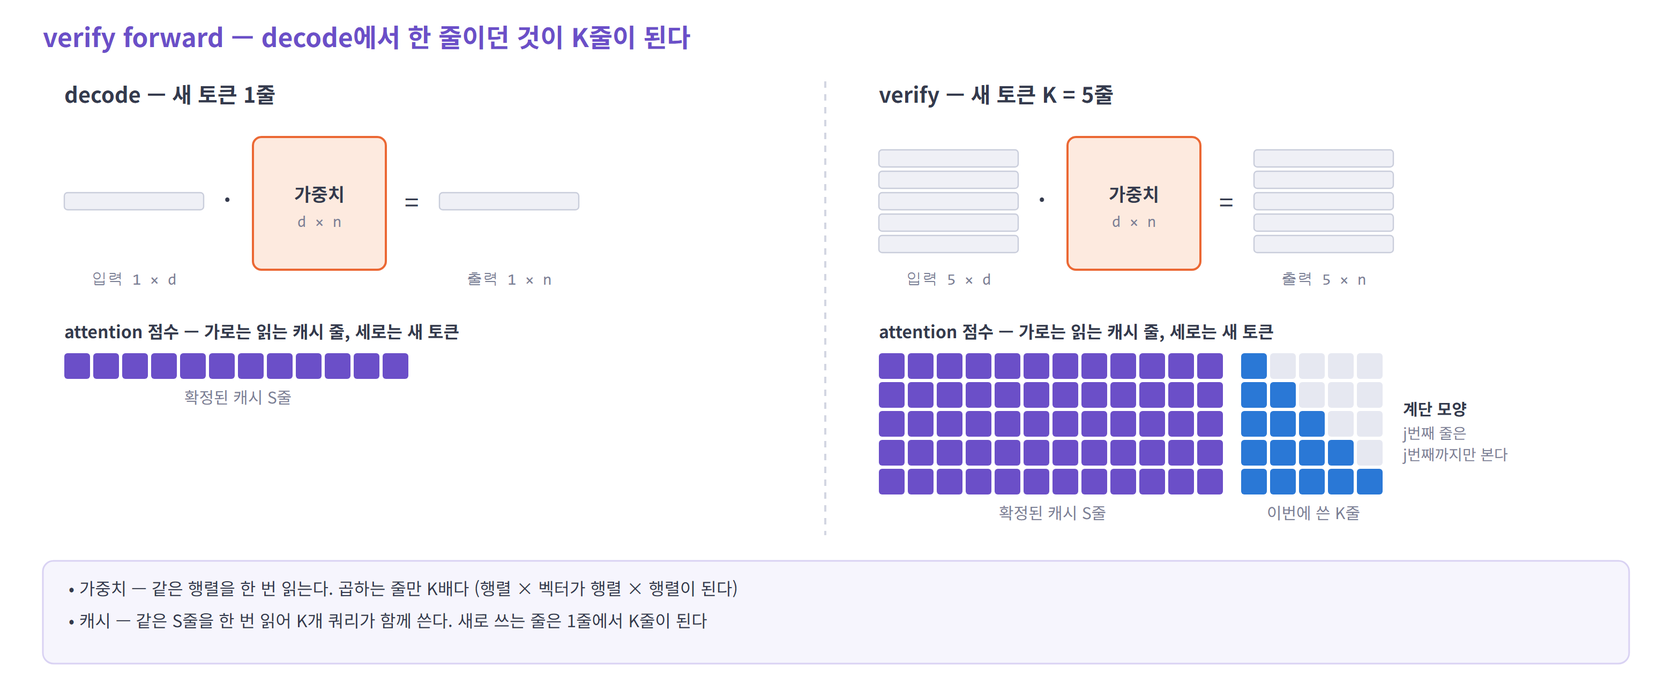
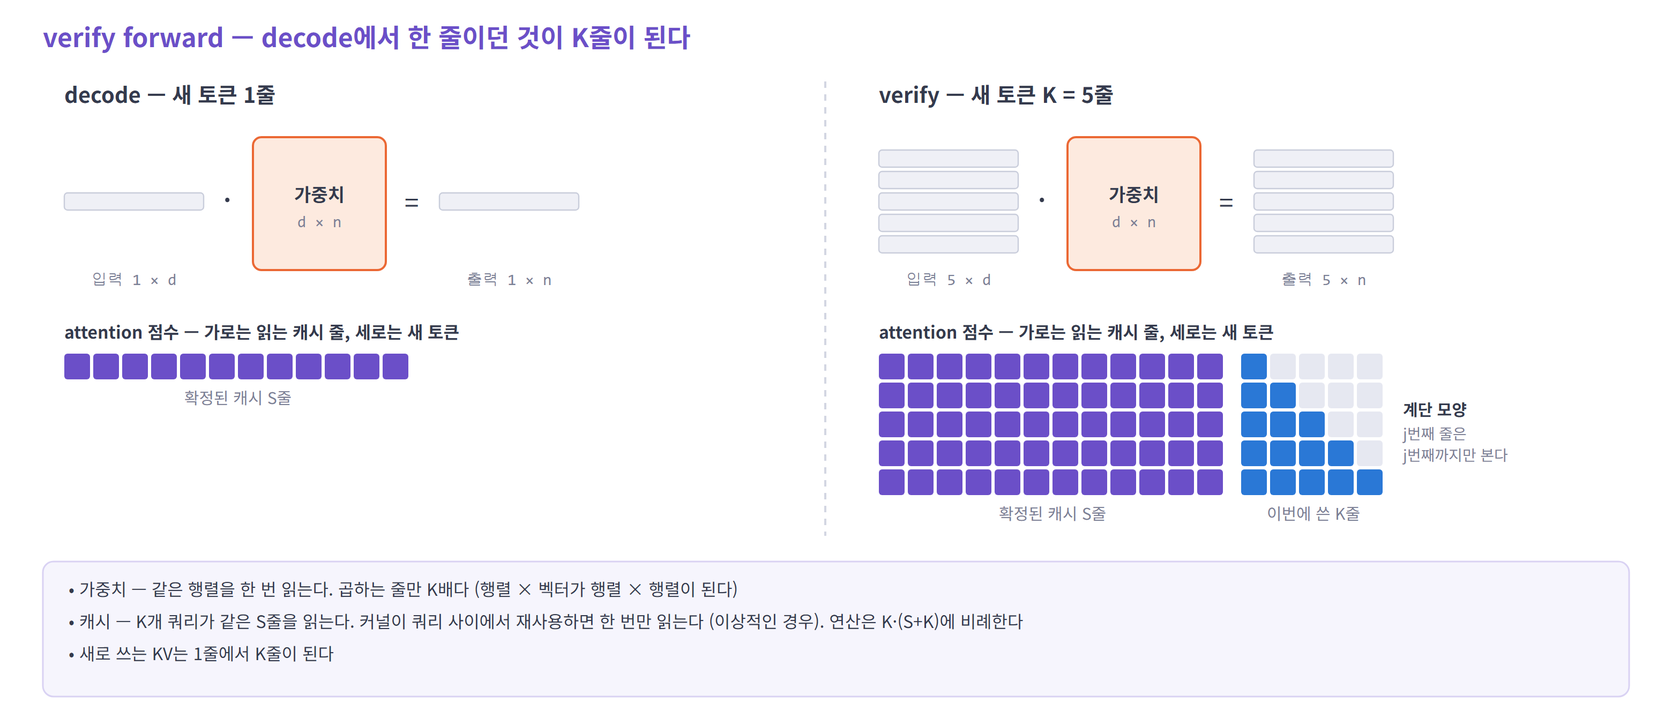
docs: correct cost assumptions in the speculative decoding study
Mark single-pass KV reads in verify as an ideal-reuse assumption and add
the K·(S+K) attention compute, including why MLA targets turn
compute-bound at K = 2. Recompute the DeepSeek-V3 MTP example with both
sides under the same batch condition and stop treating the reported
1.8x as a validation target. Narrow "the verification rule is the same"
to the shared principle, split drafters into generation and context
supply axes so PARD is no longer costed like DFlash, separate CPU and
GPU n-gram, fix the EAGLE-3 weight size, rename the DFlash loss decay
to avoid reusing gamma, switch KV sizes to KiB, and note that the
batch-size tradeoff assumes short contexts.

diff --git a/deepstudy/speculative-decoding/figures/make_figures.py b/deepstudy/speculative-decoding/figures/make_figures.py
@@ -566,7 +566,7 @@ def fig_parallel():
 
 # ---------------------------------------------------------------- 9. verify의 모양
 def fig_verify_shapes():
-    f = Fig("09-verify-shapes", 1560, 640)
+    f = Fig("09-verify-shapes", 1560, 670)
     f.title(40, 44, "verify forward — decode에서 한 줄이던 것이 K줄이 된다")
     S, K = 12, 5
     cs, cg = 24, 3
@@ -606,9 +606,10 @@ def fig_verify_shapes():
     f.text(820 + (S + K) * (cs + cg) + 30, 330 + 58, "계단 모양", 15, "start", 700)
     f.text(820 + (S + K) * (cs + cg) + 30, 330 + 80, "j번째 줄은", 14, "start", color=MUTED)
     f.text(820 + (S + K) * (cs + cg) + 30, 330 + 100, "j번째까지만 본다", 14, "start", color=MUTED)
-    f.rect(40, 524, 1480, 96, "#f6f5fd", "#d9d2f3", 10, 1.5)
+    f.rect(40, 524, 1480, 126, "#f6f5fd", "#d9d2f3", 10, 1.5)
     f.lines(64, 556, ["• 가중치 — 같은 행렬을 한 번 읽는다. 곱하는 줄만 K배다  (행렬 × 벡터가 행렬 × 행렬이 된다)",
-                      "• 캐시 — 같은 S줄을 한 번 읽어 K개 쿼리가 함께 쓴다.  새로 쓰는 줄은 1줄에서 K줄이 된다"], 16, 30)
+                      "• 캐시 — K개 쿼리가 같은 S줄을 읽는다. 커널이 쿼리 사이에서 재사용하면 한 번만 읽는다 (이상적인 경우).  연산은 K·(S+K)에 비례한다",
+                      "• 새로 쓰는 KV는 1줄에서 K줄이 된다"], 16, 30)
     return f
 
 
@@ -716,7 +717,7 @@ def fig_drafter_caches():
             ("EAGLE-3 · MTP 모듈", 16, "1층 분량의 KV", "target hidden을 받아 만든다"),
             ("Gemma 4 MTP", 0, "컨텍스트 캐시 없음", "target의 KV를 직접 읽는다"),
             ("DFlash · DSpark", 40, "draft 층 수만큼의 KV", "target hidden을 투영한 것"),
-            ("n-gram · suffix", -1, "캐시 없음", "토큰 열에서 문자열을 찾는다")]
+            ("n-gram · suffix", -1, "모델 캐시 없음", "토큰 열에서 문자열을 찾는다")]
     rows, rh, rg = 9, 20, 4
     for i, (name, dw, l1, l2) in enumerate(cols):
         x = 40 + i * 300
@@ -738,7 +739,7 @@ def fig_drafter_caches():
             f.text(dx + 40, 310, "읽기만 한다", 14, color=MUTED)
         else:
             f.box(dx - 16, 226, 110, 60, "n", "토큰 열", fs=15)
-            f.text(dx + 39, 310, "호스트 CPU", 14, color=MUTED)
+            f.text(dx + 39, 310, "CPU 또는 GPU", 14, color=MUTED)
         f.text(x + 142, 446, l1, 16, weight=700)
         f.text(x + 142, 472, l2, 14, color=MUTED)
     f.lines(40, 536, ["• 파란 막대의 폭 = 캐시를 두는 층 수 (개념적인 비율).  줄 수는 어느 쪽이든 컨텍스트 길이 S다",

diff --git a/deepstudy/speculative-decoding/04-simulator.md b/deepstudy/speculative-decoding/04-simulator.md
@@ -26,20 +26,34 @@
 | ③ 맞춰 볼 숫자가 있나 | 같은 target에서 보고된 `τ`와 속도가 있나 |
 | ④ op 표가 있나 | target을 트레이서로 이미 뽑았나 |
 
-②로 묶으면 drafter는 다섯 부류다.
+②로 보면 drafter는 **두 축의 조합**이다. 이름보다 이 두 축이 비용을 정한다.
 
-| 부류 | 해당 | 초안 비용 (사이클당) | drafter 캐시 | 검증 |
-|---|---|---|---|---|
-| **A. 얇은 순차** | 내장 MTP, EAGLE-3 | `γ` × (층 1개 + head) | 1층 분량 | 일렬 (트리는 선택) |
-| **B. 병렬 블록** | DFlash, DSpark, DFlash 2, PARD | 1 × (층 `L`개 + head) | `L`층 분량 (창이 있으면 상한) | 일렬 블록. DSpark는 요청마다 길이가 다르다 |
-| C. target KV를 읽는 순차 | Gemma 4 MTP | `γ` × (층 4개 + 작은 head) + target KV 읽기 | 없음 | 일렬 |
-| D. 별도 모델 | draft model | `γ` × (작은 모델의 decode 한 스텝) | 작은 모델 전체 | 일렬 |
-| E. 모델 없음 | n-gram, suffix | 거의 0 (CPU) | 없음 | 일렬 |
+**축 1 — 초안을 어떻게 뽑나** → 초안 시간 `T_draft`를 정한다
 
-- **A와 B만 있으면 실제로 쓰이는 것의 대부분이 덮인다.** C · D · E는 A의 변형이다 — 캐시 위치와 비용 항목만 바꾸면 된다
+| 생성 방식 | forward | 해당 |
+|---|---|---|
+| 순차 | `γ`번, 매번 요청당 1줄 (트리면 깊이마다 후보 수만큼) | 별도 draft 모델, EAGLE-3, 내장 MTP, Gemma 4 MTP |
+| 병렬 | 1번, 요청당 `γ + 1`줄 (anchor + 마스크 토큰) | PARD, DFlash, DSpark, DFlash 2 |
+| 모델 없음 | 0 — CPU의 매칭, 또는 GPU의 작은 매칭 연산(`ngram_gpu`) | n-gram, suffix |
+
+**축 2 — 컨텍스트를 어떻게 받나** → drafter 캐시 · prefill · 사이클마다의 쓰기를 정한다
+
+| 컨텍스트 공급 | drafter 캐시 | prefill 때 추가로 하는 일 | 해당 |
+|---|---|---|---|
+| 자기 모델의 KV | 작은 모델의 모든 층 | 작은 모델의 prefill 전체 | 별도 draft 모델, **PARD** |
+| target hidden → drafter 층 forward | 1층 분량 | drafter 층 1개로 프롬프트 전체 forward | EAGLE-3, 내장 MTP |
+| target hidden → 층마다 K · V 투영만 | `L`층 분량 (창이 있으면 상한) | 투영만 — attention · FFN 없음 | DFlash, DSpark, DFlash 2 |
+| target의 KV를 직접 읽기 | 없음 | 없음 (대신 초안 스텝마다 target KV를 읽는다) | Gemma 4 MTP |
+| 없음 | 없음 (CPU의 토큰 열, 또는 GPU의 토큰 버퍼) | 없음 | n-gram, suffix |
+
+- **PARD와 DFlash는 둘 다 병렬로 뽑지만 컨텍스트 공급이 다르다.** PARD는 독립 소형 모델이라 자기 prefill과 자기 KV 전부를 치른다. 두 축을 따로 구현해 조합하면 이런 차이가 새 코드 없이 나온다
+- 자주 쓰는 두 조합에 이름을 붙여 둔다. 이 페이지의 나머지는 이 이름을 쓴다
+  - **A = 순차 + hidden → 1층 forward** — 내장 MTP, EAGLE-3
+  - **B = 병렬 + 층마다 투영** — DFlash, DSpark, DFlash 2
+- **공개된 drafter 체크포인트의 대부분이 A와 B에 속한다.** 나머지는 같은 두 축의 다른 칸이다
 - **내장 MTP와 EAGLE-3는 같은 코드다.** 다른 것은 매개변수 셋이다 — 층의 종류(MTP는 본체와 같은 층, EAGLE-3는 Q · K · V 입력이 `2d`인 decoder 층), head의 어휘 크기(MTP는 target 어휘, EAGLE-3는 3.2만), target에서 꺼내는 hidden 층 수(1 대 3)
 
-> **결론: 사이클 프레임 하나 + drafter 부류 A · B를 먼저 만든다.** 나머지는 매개변수와 작은 항목으로 붙인다.
+> **결론: 사이클 프레임 하나 + 두 축(생성 방식 · 컨텍스트 공급)을 따로 구현하고, A · B부터 채운다.** 나머지 칸은 매개변수와 작은 항목으로 붙인다.
 
 ---
 
@@ -53,7 +67,7 @@
 | Llama-3.1-70B | 없음 | EAGLE-3 (Speculators) | EAGLE-3 논문 (Llama-3.3-70B 4.12×) |
 | gpt-oss-20b · 120b | 없음 | EAGLE-3 (Speculators), DFlash (z-lab) | NVIDIA (120b): 1.7× vs 2.3× |
 | Qwen3-30B-A3B | 없음 | EAGLE-3, DFlash (Speculators) | — |
-| **DeepSeek-V3** | 1 (`num_nextn_predict_layers`) | — | 채택률 0.85 ~ 0.90, 1.8× (DeepSeek) |
+| **DeepSeek-V3** | 1 (`num_nextn_predict_layers`) | — | 채택률 0.85 ~ 0.90, 1.8× (DeepSeek, 측정 조건 미공개) |
 | **DeepSeek-V4-Flash · Pro** | 1 | DSpark (DeepSeek-V4-*-DSpark) | DSpark vs MTP-1: 사용자당 +57 ~ 85% |
 | GLM-5.2 · GLM-4.5-Air | 1 | GLM 5.2: DSpark (Speculators) | — |
 | ERNIE-4.5-21B-A3B | 1 | — | — |
@@ -77,8 +91,8 @@
 
 | 단계 | 조합 | 이 단계에서 검증되는 것 |
 |---|---|---|
-| 1 | **Llama-3.1-8B + EAGLE-3, DFlash** | 가장 단순한 target(dense · GQA)에서 부류 A와 B. 같은 target에 두 drafter의 공개 비교가 있다 |
-| 2 | **DeepSeek-V3 + MTP-1** | MoE의 expert 합집합, MLA, 합성한 MTP op. 보고된 1.8×와 맞춰 본다 |
+| 1 | **Llama-3.1-8B + EAGLE-3, DFlash** | 가장 단순한 target(dense · GQA)에서 A와 B. 같은 target에 두 drafter의 공개 비교가 있다 |
+| 2 | **DeepSeek-V3 + MTP-1** | MoE의 expert 합집합, MLA(verify의 attention이 연산에 묶임), 합성한 MTP op. 보고된 1.8×는 측정 조건이 공개되지 않아 정답으로 쓰지 않는다 — 배치에 따라 이득이 달라지는 **방향**을 본다 |
 | 3 | **Qwen3.5-397B-A17B 또는 Qwen3.6-35B-A3B + 내장 MTP vs DFlash** | 선형 attention 혼합 — 상태 저장 비용. MoE. LMSYS · AMD 결과 |
 | 4 | **DeepSeek-V4-Flash + DSpark** | 압축 · 희소 attention의 검증, 요청마다 다른 검증 길이(스케줄러), MTP-1과의 비교 |
 
@@ -94,7 +108,7 @@
 |---|---|
 | `S` | target KV에 있는 줄 수 (확정된 토큰 중 KV가 있는 것) |
 | 대기 토큰 | 마지막으로 확정됐지만 아직 KV가 없는 토큰 1개 — 다음 verify의 맨 앞 |
-| `S_draft` | drafter 캐시의 줄 수 (부류 A · B) |
+| `S_draft` | drafter 캐시의 줄 수 (컨텍스트를 자기 캐시로 받는 drafter) |
 | `γ_r` | 이번 사이클에 검증할 초안 수. 고정이거나 스케줄러가 정한다 |
 | 선형 attention 상태 | 혼합 모델이면 층마다 상태 하나 + 검증 중 중간 상태 `K`개 |
 
@@ -112,7 +126,7 @@
 |---|---|---|---|
 | 가중치 matmul (투영 · FFN · LM head) | 가중치 1번 | 줄 수 `Σ K_r`에 비례 | — |
 | **MoE expert matmul** | **불린 expert 수** × expert 크기 | 줄 수에 비례 | — |
-| attention 점수 · 가중합 | 요청마다 캐시 `S + K`줄 1번 | `K`배 | — |
+| attention 점수 · 가중합 | 요청마다 캐시 `S + K`줄 × 재사용 계수 (이상적이면 1번, 쿼리마다 따로 읽으면 `K`번) | `K·(S + K)`에 비례 | — |
 | KV 쓰기 | — | — | 요청마다 `K`줄 |
 | 원소별 연산 (norm · RoPE · softmax …) | 활성값 | `K`배 | 활성값 |
 | LM head 뒤 로짓 | — | — | `K × V` |
@@ -122,12 +136,13 @@
 | 골라 읽기 (gather) | **`K`개 선택의 합집합** | — | — |
 
 - op 하나의 시간은 시뮬레이터가 이미 쓰는 규칙을 그대로 쓴다 (예: `max(바이트 ÷ 대역폭, FLOP ÷ 연산 성능)`)
+- **attention은 읽기와 연산을 둘 다 센다.** KV를 쿼리 사이에서 얼마나 재사용하는지는 커널이 정하므로 재사용 계수를 매개변수로 둔다. MLA target은 `K` = 2만 돼도 연산이 시간을 정한다 ([03](03-compute-and-kv.md#2-verify-forward--decode와-무엇이-같고-다른가))
 - MoE의 불린 expert 수는 층마다 `E · (1 − (1 − k/E)^n)`로 센다. `n`은 그 forward에서 라우팅되는 토큰 수 `Σ K_r`다 ([03](03-compute-and-kv.md#8-모델-구조에-따라-깨지는-가정))
 - 스텝마다 붙는 고정 비용(호스트 작업, 커널 실행)도 따로 둔다. speculative decoding은 비교 · 롤백 · 초안 관리로 호스트 일을 늘린다. SGLang의 Spec V2가 이것을 GPU와 겹친 것만으로 처리량을 33% 올렸다 — 작은 항목이 아니다
 
-### 4.2 drafter — 부류별 op 목록
+### 4.2 drafter — 조합별 op 목록
 
-**부류 A — 얇은 순차 (내장 MTP, EAGLE-3)**
+**A — 순차 + hidden → 1층 forward (내장 MTP, EAGLE-3)**
 
 ```
 첫 패스   줄 = a + 1  (지난 사이클에 확정된 위치)
@@ -143,7 +158,7 @@
 - 트리를 쓰면 깊이마다 forward 한 번, 줄 수는 그 깊이의 후보 수(`topk`)다. 검증 줄 `K`는 노드 수다
 - **head가 비싸다.** target 어휘가 크면 drafter 한 스텝의 절반 이상이 head다 — EAGLE-3가 어휘를 줄이고, Gemma 4가 군집 top-k를 쓰는 이유다
 
-**부류 B — 병렬 블록 (DFlash, DSpark)**
+**B — 병렬 + 층마다 투영 (DFlash, DSpark)**
 
 ```
 컨텍스트 투영   줄 = a + 1
@@ -161,22 +176,16 @@
 - 초안 비용이 `γ`와 거의 무관하다 — 블록 forward의 가중치 읽기가 한 번이다
 - 창이 있는 drafter(DSpark 서비스용, 128토큰)는 캐시를 `min(S, 128)`줄만 읽는다
 
-**부류 C · D · E**
+**두 축의 다른 칸**
 
-| 부류 | 초안 비용 | 덧붙일 것 |
-|---|---|---|
-| C. Gemma 4 MTP | `γ` × [4층 1줄 + 작은 head] | 초안 스텝마다 **target KV 읽기** (읽는 층 수는 매개변수) |
-| D. 별도 모델 | `γ` × (작은 모델의 decode 표) | 작은 모델의 prefill과 KV — 트레이서에 있는 작은 모델의 표를 그대로 쓴다 |
-| E. n-gram · suffix | 상수 (CPU) | 채택 모형만 다르다 — 작업 종류에 크게 의존 |
+| drafter | 축 1 · 축 2 | 초안 비용 | 덧붙일 것 |
+|---|---|---|---|
+| Gemma 4 MTP | 순차 · target KV 직접 | `γ` × [4층 1줄 + 작은 head] | 초안 스텝마다 **target KV 읽기** (읽는 층 수는 매개변수) |
+| 별도 draft 모델 | 순차 · 자기 KV | `γ` × (작은 모델의 decode 표) | 작은 모델의 prefill과 KV — 트레이서에 있는 작은 모델의 표를 그대로 쓴다 |
+| PARD | 병렬 · 자기 KV | 1 × (작은 모델의 forward, `γ + 1`줄) | 작은 모델의 prefill과 KV — B의 투영 경로가 아니다 |
+| n-gram · suffix | 모델 없음 | CPU 매칭 시간(상수), 또는 GPU의 작은 매칭 연산 | 채택 모형만 다르다 — 작업 종류에 크게 의존 |
 
-**prefill에 붙는 일**
-
-| 부류 | prefill 때 추가로 하는 일 |
-|---|---|
-| A | drafter 층 1개로 프롬프트 전체 forward (target hidden을 받아) |
-| B | 프롬프트 전체에 대해 섞기 + 층마다 K · V 투영만 |
-| C · E | 없음 |
-| D | 작은 모델의 prefill 전체 |
+prefill 때 drafter가 추가로 하는 일은 1절 축 2의 표 그대로다.
 
 ---
 
@@ -228,7 +237,7 @@ a = (통과한 수)
 | | 계산 | target 한 스텝 대비 |
 |---|---|---|
 | target 한 스텝 | 층 36 × 192.9M + LM head 622M = 7.57B | 1 |
-| EAGLE-3 한 스텝 | 층 1개 218M (Q · K · V 입력 `2d`) + head 4096 × 32,000 = 131M → 0.35B | 0.046 |
+| EAGLE-3 한 스텝 | 층 1개 218M (Q · K · V 입력 `2d`, FFN은 target 층과 같은 12288이라고 가정) + head 4096 × 32,000 = 131M → 0.35B | 0.046 |
 | EAGLE-3 초안 (깊이 8) | 8 × 0.046 + hidden 섞기 50M | **0.38** |
 | DFlash 초안 (블록 16) | 층 5개 965M + head 622M + 섞기 84M = 1.67B | **0.22** |
 | verify | 트리 60줄 / 블록 16줄 — 연산 증가분을 메모리 시간의 10% / 3%로 둠 | 1.10 / 1.03 |
@@ -243,23 +252,22 @@ a = (통과한 수)
 - 둘 사이의 비율은 잘 맞는다. **이 정도 단순한 모형으로도 어느 drafter가 왜 빠른지는 재현된다**
 - 왜 DFlash가 빠른가: `τ`가 1.9배 높고 사이클이 0.85배로 짧다. 앞은 깊은 drafter와 모든 층 주입에서, 뒤는 forward 한 번에서 나온다
 
-### DeepSeek-V3 — MTP-1, 배치에 따라
+### DeepSeek-V3 — MTP-1, 배치에 따라 (가정 아래의 예시)
 
-| | 계산 | 값 |
+target과 MTP의 비용은 **같은 배치 조건에서** 함께 센다. 배치가 바뀌면 양쪽이 부르는 expert의 수가 함께 바뀌기 때문이다.
+
+| | 배치 1 | 큰 배치 (가정: target과 MTP 모두 expert를 거의 다 읽는다) |
 |---|---|---|
-| 층 하나의 활성 파라미터 | MLA 187M + expert 9개(공유 1 + 선택 8) × 44.0M | 584M |
-| target 한 스텝 | 61층 × 584M + 출력 head 927M | 36.5B |
-| MTP 한 스텝 | 층 1개 584M + 투영 `2d → d` 103M + head 927M | 1.61B → **0.044** |
-| verify `K` = 2, 배치 1 | 선택 expert 8 → 15.8개 (58개 MoE 층) | 읽기 **1.54배** |
-| verify `K` = 2, 큰 배치 | 이미 거의 모든 expert를 읽는 중 | 읽기 **약 1.0배** |
+| target 한 스텝의 가중치 읽기 | 61층 × 584M + head 927M = 36.5B | MoE 58층 × 11.5B + dense 3층 + head = 670B |
+| MTP 한 스텝 | 층 1개 584M + 투영 103M + head 927M = 1.61B → **`c` = 0.044** | 층 1개 11.5B + 투영 + head = 12.5B → **`c` = 0.019** |
+| verify `K` = 2의 읽기 | 선택 expert 8 → 15.8개 → **1.54배** | 이미 다 읽고 있다 → **약 1.0배** |
+| 속도 (`τ` 1.875) | 1.875 / (1.54 + 0.044) ≈ **1.2×** | 1.875 / (1.0 + 0.019) ≈ **1.8×** |
 
-| | `τ` | 사이클 시간 | 계산한 속도 |
-|---|---|---|---|
-| 배치 1 | 1.875 | 1.54 + 0.044 | **약 1.2×** |
-| 큰 배치 | 1.875 | 1.0 + 0.044 | **약 1.8×** — DeepSeek 보고값과 같다 |
-
-- 💡 MoE에서는 같은 drafter라도 **배치가 작을 때 이득이 작다.** 시뮬레이터가 expert 합집합을 세지 않으면 배치 1의 MoE 속도를 크게 부풀린다
-- 라우팅이 고르고 독립이라는 가정이다. 실제로는 이웃 토큰의 expert가 겹쳐 1.54배보다 작다. 이 값은 실제 라우팅 기록이 있으면 그것으로 바꾼다
+- 층 하나의 활성 파라미터 584M = MLA 187M + expert 9개(공유 1 + 선택 8) × 44.0M. expert를 다 읽으면 층 하나가 11.5B다 (expert 257개)
+- **둘 다 가정 아래의 예시 계산이다.** 라우팅이 고르고 독립이라고 두었고, 가중치 읽기만 셌다. 큰 배치에서는 KV 읽기와 연산(특히 MLA의 attention)도 시간에 들어온다
+- DeepSeek가 보고한 1.8배는 측정 조건이 공개되지 않았다. 그 값이 "큰 배치에서 expert 읽기가 포화됐기 때문"이라고 확인된 것은 아니므로, **구현을 검증하는 정답으로 쓰지 않는다**
+- 이 예시에서 가져갈 것은 방향이다 — 💡 MoE에서는 같은 drafter라도 **배치가 작을 때 이득이 작다.** 시뮬레이터가 expert 합집합을 세지 않으면 배치 1의 MoE 속도를 크게 부풀린다
+- 실제로는 이웃 토큰의 expert가 겹쳐 1.54배보다 작다. 실제 라우팅 기록이 있으면 그것으로 바꾼다
 
 ---
 
@@ -270,7 +278,7 @@ a = (통과한 수)
 | 항목 | 크기 | 비고 |
 |---|---|---|
 | target KV | `(S + K) ×` 토큰당 크기 | `K`줄은 verify용 여유 |
-| drafter 캐시 | 부류 A: `S ×` 1층분 / B: `min(S, W) ×` `L`층분 / C · E: 0 / D: 작은 모델 전체 | 03의 표: EAGLE-3 +3.1%, DSV3 MTP +1.6%, DFlash 5층 +13.9% |
+| drafter 캐시 | 축 2에 따라 — hidden → 1층 forward: `S ×` 1층분 / 층마다 투영: `min(S, W) ×` `L`층분 / 자기 KV(별도 모델 · PARD): 작은 모델 전체 / target KV 직접 · 모델 없음: 0 | 03의 표: EAGLE-3 +3.1%, DSV3 MTP +1.6%, DFlash 5층 +13.9% |
 | 선형 attention 상태 | 층마다 (1 + `K`) × 상태 크기 | 혼합 모델만 |
 | 로짓 버퍼 | `K × V × 4 B` | 블록이 길고 어휘가 크면 수 MB |
 | hidden 버퍼 | `K × d ×` 꺼내는 층 수 `× 2 B` | 잠깐 쓴다 |
@@ -279,7 +287,7 @@ a = (통과한 수)
 
 | drafter | 크기 |
 |---|---|
-| EAGLE-3 (Llama-3.1-8B용) | 층 1개 + 어휘 3.2만 head ≈ 0.35B |
+| EAGLE-3 (Llama-3.1-8B용) | decoder 1층 243M (Q · K · V 입력 `2d`, FFN 14336) + hidden 섞기 `3d → d` 50M + 어휘 3.2만 head 131M ≈ **0.43B** (임베딩 표 제외 — 체크포인트와 구현에 따라 target 것을 함께 쓴다) |
 | DFlash (Qwen3-8B용) | 층 5개 ≈ 1B (임베딩 · head는 target 것) |
 | MTP (DeepSeek-V3) | 14B — 체크포인트에 들어 있지만 올려 둬야 한다 |
 | Gemma 4 MTP | 76M ~ 500M |
@@ -291,9 +299,9 @@ a = (통과한 수)
 | 단계 | 만드는 것 | 확인 |
 |---|---|---|
 | 1 | 사이클 프레임 + 상수 `α` 채택 모형 + verify 비용 (decode 표를 `K`줄로). drafter 비용은 0 | `γ` = 0이면 **기존 decode 결과와 정확히 같다** · `α` = 1이면 `τ = γ + 1` · `α` = 0이면 사이클당 1토큰이고 기존보다 느리다 |
-| 2 | 부류 A (EAGLE-3 on Llama-3.1-8B). head 어휘 크기, 첫 패스 줄 수 | 배치가 커질수록 이득이 줄고, `τ`가 낮은 drafter가 먼저 1 아래로 내려간다 (03 그림의 왼쪽 모양) |
-| 3 | 부류 B (DFlash) | Qwen3-8B에서 DFlash ÷ EAGLE-3 ≈ 2.4 · 동시 요청 1 → 32에서 5.1× → 2.8×의 모양 |
-| 4 | MoE expert 합집합 + 합성한 MTP op (DeepSeek-V3) | 배치 1에서 약 1.2×, 큰 배치에서 약 1.8× |
+| 2 | A (EAGLE-3 on Llama-3.1-8B). head 어휘 크기, 첫 패스 줄 수 | 짧은 컨텍스트에서 배치가 커질수록 이득이 줄고, `τ`가 낮은 drafter가 먼저 1 아래로 내려간다 (03 그림의 왼쪽 모양) |
+| 3 | B (DFlash) | Qwen3-8B에서 DFlash ÷ EAGLE-3 ≈ 2.4 · 동시 요청 1 → 32에서 5.1× → 2.8×의 모양 |
+| 4 | MoE expert 합집합 + 합성한 MTP op + attention 재사용 계수 (DeepSeek-V3) | **방향** — 배치가 작을수록 MoE의 이득이 깎이고, 컨텍스트가 길수록 MLA의 verify attention이 비싸진다. 6절의 1.2× · 1.8×는 정답이 아니라 예시다 |
 | 5 | 메모리 모형 — `K`줄 여유, drafter 캐시, 혼합 모델의 중간 상태 (Qwen3.5) | 같은 HBM에서 동시 요청 수의 상한이 drafter 종류에 따라 줄어드는 양 |
 | 6 | (선택) 트리 검증, DSpark 스케줄러 | 아래 |
 | 7 | 출력 — **사용자당 토큰/초 대 전체 처리량** 곡선 | DSpark · NVIDIA가 쓰는 축이다. "같은 처리량에서 사용자당 속도"로 비교한다 |
@@ -308,13 +316,15 @@ a = (통과한 수)
 def step(batch, target, drafter, hw):
     """배치 하나의 사이클 한 번. 반환: 걸린 시간. 요청 상태를 갱신한다."""
     # ① draft — 지난 사이클에 확정된 줄로 drafter 캐시를 채우고, 초안을 낸다
-    t_draft = drafter.cost(batch, hw)        # 부류 A: 첫 패스(a+1줄) + (γ-1) × 1줄 / 부류 B: 투영(a+1줄) + 블록 1번
+    t_draft = drafter.cost(batch, hw)        # A: 첫 패스(a+1줄) + (γ-1) × 1줄 / B: 투영(a+1줄) + 블록 1번
 
     # ② verify — target의 decode 표를 새 토큰 Σ K_r 줄로
     rows = sum(r.gamma + 1 for r in batch)
     t_verify = target.step_cost(new_rows=rows,
                                 ctx=[r.S + r.gamma + 1 for r in batch],
-                                moe_tokens=rows, hw=hw)
+                                moe_tokens=rows,
+                                kv_reuse=hw.kv_reuse,   # 1 = 이상적 재사용, K = 쿼리마다 따로 읽음
+                                hw=hw)
 
     # ③ accept
     for r in batch:
@@ -338,7 +348,7 @@ def serve(requests, target, drafter, hw):
     while requests or active:
         active += admit(requests, active, hw)          # 메모리: target KV (S+K) + drafter 캐시 + 상태
         prefill = [r for r in active if not r.prefilled]
-        clock += prefill_cost(prefill, target, drafter, hw)   # 부류 A·B·D는 drafter의 prefill도 센다
+        clock += prefill_cost(prefill, target, drafter, hw)   # 컨텍스트 공급 축에 따라 drafter의 prefill도 센다
         decode = [r for r in active if r.prefilled]
         for r in decode:
             r.gamma = drafter.choose_gamma(r, decode, hw)     # 고정 γ, 또는 DSpark식 Θ 최대화
@@ -361,5 +371,7 @@ def serve(requests, target, drafter, hw):
 - [DSpark](https://arxiv.org/abs/2607.05147) — 오프라인 `τ` 표, 스케줄러
 - [vLLM 블로그 — Speculative Decoding on AMD GPUs (2026-08)](https://vllm.ai/blog/2026-08-23-speculative-decoding-amd-gpus) — MAL과 acceptance rate
 - [Inco AI — DFlash 2](https://inco.ai/blog/dflash2/) — Qwen3.5-4B의 MTP · DFlash · DSpark · DFlash 2 `τ`
+- [PARD](https://arxiv.org/abs/2504.18583) — 병렬 초안을 내는 독립 소형 모델
+- [vLLM — llama_eagle3.py](https://github.com/vllm-project/vllm/blob/main/vllm/model_executor/models/llama_eagle3.py) — EAGLE-3 drafter의 구조 (Q · K · V 입력 `2d`)
 - [LMSYS — DFlash and Spec V2](https://www.lmsys.org/blog/2026-06-15-next-generation-speculative-decoding-dflash-v2/) — 호스트 작업을 겹쳐 얻은 처리량
 - [vLLM Speculators](https://github.com/vllm-project/speculators) · [z-lab/dflash](https://github.com/z-lab/dflash) — 공개 drafter 목록

diff --git a/deepstudy/speculative-decoding/01-principle.md b/deepstudy/speculative-decoding/01-principle.md
@@ -132,10 +132,12 @@ P(최종 = x) = q(x) · min(1, p(x)/q(x))   +   (1 − β) · r(x)
 
 | 변형 | 하는 일 | 어디서 |
 |---|---|---|
-| block verification | 앞에서부터 하나씩 끊지 않고, 모든 prefix를 함께 보고 가장 긴 채택 prefix를 고른다. 분포는 그대로 지킨다 | SGLang `--speculative-use-block-verification` (`topk = 1`에서) |
+| block verification | 토큰마다 끊지 않고 prefix 단위로 판정한다. 토큰별로는 앞 자리에서 거부됐을 경우에도 더 긴 prefix를 받을 수 있다. 보정 분포로 분포는 지킨다 | SGLang `--speculative-use-block-verification` (`topk = 1`에서) |
 | 트리 검증 | 한 자리에 후보가 여럿이다. 형제 후보를 차례로 시도한다 | SGLang의 EAGLE 경로 ([03](03-compute-and-kv.md#5-트리-검증)) |
 | 서로 다른 어휘 | drafter와 target의 토크나이저가 달라도 텍스트로 맞춰 검증한다 | vLLM `use_heterogeneous_vocab` (greedy만) |
+| typical acceptance | target의 확률이 임계값을 넘는 후보를 받는다. **분포를 그대로 지키지 않는다** — 품질을 조금 내주고 채택을 늘린다 | Medusa |
 
+- 그래서 "검증 규칙은 하나"가 아니다. 공통인 것은 **한 번에 검증하고 target의 분포를 기준으로 판정한다**는 원리이고, 채택 알고리즘과 구현 경로는 다르다. 이 자료의 계산은 기본형(토큰별 거부 샘플링, 일렬)을 기준으로 한다
 - "손실 없음"은 수학적으로 그렇다는 뜻이다. 실제 엔진에서는 배치 구성이 바뀌면 부동소수점 결과가 미세하게 달라져, logprob이 실행마다 조금씩 다를 수 있다 (vLLM 문서)
 
 </details>
@@ -196,10 +198,11 @@ target decode 한 스텝의 시간을 1로 두고, 사이클 하나의 시간을
 | `γ` = 4, `α` = 0.8, `c` = 0.05 | 3.36 | 0.20 | 1.05 | **2.7×** |
 | `γ` = 4, `α` = 0.6, `c` = 0.05 | 2.31 | 0.20 | 1.05 | 1.8× |
 | `γ` = 4, `α` = 0.3, `c` = 0.05 | 1.43 | 0.20 | 1.05 | 1.1× |
-| DeepSeek-V3 MTP, `γ` = 1, `α` = 0.85 ~ 0.90 | 1.85 ~ 1.90 | 0.044 | 약 1.0 | **약 1.8×** |
+| DeepSeek-V3 MTP, `γ` = 1, `α` = 0.85 ~ 0.90 — 큰 배치를 가정한 예시 | 1.85 ~ 1.90 | 약 0.02 | 약 1.0 | 약 1.8× |
 
-- 마지막 줄의 `c` = 0.044는 MTP 모듈 하나(본체와 같은 블록 + 출력 head)를 본체 61층 + head와 견준 값이다 ([04](04-simulator.md#6-개략-검산)). DeepSeek-V3 기술 보고서는 두 번째 토큰의 채택률 85 ~ 90%, 속도 1.8배를 보고했다
-- `T_verify`를 1로 둔 것은 "K줄로 늘어도 읽는 양이 그대로"라는 가정이다. MoE 모델에서 배치가 작으면 이 가정이 깨진다 ([03](03-compute-and-kv.md#8-모델-구조에-따라-깨지는-가정))
+- 마지막 줄은 **가정 아래의 예시 계산**이다. 배치가 커서 target과 MTP 모듈이 모두 거의 모든 expert를 이미 읽는다고 두면, `c`는 MTP 블록 하나 + 출력 head를 본체 61층 + head와 견준 약 0.02이고, 검증 토큰이 늘어도 읽는 양이 그대로라 `T_verify` ≈ 1이다 ([04](04-simulator.md#6-개략-검산))
+- DeepSeek-V3 기술 보고서는 두 번째 토큰의 채택률 85 ~ 90%, 속도 1.8배를 보고했다. 측정 조건은 공개되지 않았다 — 위 계산과 값이 비슷하다는 것이 그 가정이 맞다는 근거는 아니다
+- 배치 1에서는 다르다. MoE는 검증 토큰마다 다른 expert를 불러 읽는 양이 늘고, 같은 계산이 약 1.2배가 된다 ([03](03-compute-and-kv.md#8-모델-구조에-따라-깨지는-가정))
 
 **`γ`를 하나 늘릴지 정하는 기준**
 
@@ -223,4 +226,5 @@ target decode 한 스텝의 시간을 1로 두고, 사이클 하나의 시간을
 - [DeepSeek-V3 Technical Report](https://arxiv.org/abs/2412.19437) 5.4.3절 — MTP 두 번째 토큰 채택률 85 ~ 90%, 1.8배
 - [vLLM — Speculative Decoding](https://docs.vllm.ai/en/latest/features/speculative_decoding/) — 손실 없음의 범위, `use_heterogeneous_vocab`
 - [SGLang — Speculative Decoding](https://docs.sglang.io/docs/advanced_features/speculative_decoding) — block verification
+- [Medusa](https://arxiv.org/abs/2401.10774) — typical acceptance
 - [vLLM 블로그 — Exploring Speculative Decoding in vLLM on AMD GPUs (2026-08)](https://vllm.ai/blog/2026-08-23-speculative-decoding-amd-gpus) — MAL과 acceptance rate 보고 방식

diff --git a/deepstudy/speculative-decoding/README.md b/deepstudy/speculative-decoding/README.md
@@ -19,11 +19,13 @@
 
 **1) 표준이 되는 것이 있나?**
 
-- **검증 쪽은 완전히 표준이다.** 초안을 target forward 한 번으로 확인하고, 거부 샘플링으로 출력 분포를 지킨다. 모든 엔진이 같은 규칙을 쓴다. 서빙 엔진의 기본은 **일렬(chain) 검증**으로 굳어지는 중이다 — vLLM의 기본 경로는 일렬이고, SGLang의 새 기본 엔진(Spec V2)도 일렬(`topk = 1`)만 받는다
-- **drafter는 하나로 정해지지 않았다.** 대신 "**target의 hidden state를 받아 쓰는 얇은 drafter**"라는 부류가 표준이 됐고, 그 안에서 셋이 공존한다
-  - **모델에 들어 있는 MTP** — 있으면 일단 이것을 쓴다. 추가 비용이 없다 (DeepSeek · Qwen3.5/3.6 · GLM · ERNIE · Nemotron 3 · MiMo, Gemma 4는 별도 체크포인트)
+- **검증의 원리는 공통이다.** 초안을 target forward 한 번으로 확인하고, 출력 분포를 target 단독 샘플링과 같게 지킨다. 다만 채택 알고리즘은 몇 갈래다 — 토큰별 거부 샘플링(기본형), block verification, 트리의 다중 후보. Medusa의 typical acceptance처럼 분포 일치를 포기하고 속도를 사는 방식도 있다
+- 서빙 엔진의 기본은 **일렬(chain) 검증 + 토큰별 거부 샘플링**으로 굳어지는 중이다 — vLLM의 기본 경로는 일렬이고, SGLang의 새 기본 엔진(Spec V2)도 일렬(`topk = 1`)만 받는다
+- **drafter는 하나로 정해지지 않았다.** 대신 "**target의 hidden state를 받아 쓰는 얇은 drafter**"라는 부류가 주류가 됐고, 그 안에서 셋이 공존한다
+  - **모델에 들어 있는 MTP** — 있으면 일단 이것을 쓴다. 별도 drafter를 학습할 필요가 없다. 추론에서는 MTP 블록 · head 연산, 가중치 메모리, drafter KV가 든다 (DeepSeek · Qwen3.5/3.6 · GLM · ERNIE · Nemotron 3 · MiMo, Gemma 4는 별도 체크포인트)
   - **EAGLE-3** — 사후 학습 drafter의 기존 표준. 공개 체크포인트가 가장 넓게 깔려 있다
-  - **DFlash 계열 (DFlash → DSpark → DFlash 2)** — 2026년에 가장 빠르게 퍼진 쪽. 같은 target에서 EAGLE-3와 내장 MTP보다 빠르다는 보고가 이어지고, DeepSeek는 자체 서비스의 MTP를 DSpark로 바꿨다
+  - **DFlash 계열 (DFlash → DSpark → DFlash 2)** — 2026년에 엔진 지원과 공개 체크포인트가 가장 빠르게 늘어난 쪽. 공개된 실험에서는 같은 target의 EAGLE-3와 내장 MTP보다 빨랐고, DeepSeek는 자체 서비스의 MTP를 DSpark로 바꿨다
+- 근거는 엔진 지원 · 공개 체크포인트 · 공개 측정이다. 실제 서비스에서의 사용 비중을 보여 주는 자료는 없다
 
 **2) draft/target 구도와 MTP 모듈, 무엇이 대세인가?**
 
@@ -36,7 +38,7 @@
 
 **3) 연산과 KV cache는?** — [03](03-compute-and-kv.md)에서 그림으로 따라간다. 요점만
 
-- verify는 decode와 같은 forward이고 **새 토큰 축만 1 → K**가 된다. 가중치는 한 번 읽고, 연산과 KV 쓰기가 K배다
+- verify는 decode와 같은 forward이고 **새 토큰 축만 1 → K**가 된다. 가중치는 한 번 읽고, 연산과 KV 쓰기가 K배다. attention 연산은 `K·S`에 비례하고, 캐시를 몇 번 읽는지는 커널의 재사용 정도가 정한다
 - target KV에 K줄을 쓰고 **맞은 만큼(a + 1줄)만 남긴다.** 롤백은 길이 값을 되돌리거나 자리를 반납하는 것이다
 - drafter도 컨텍스트를 읽어야 한다. **어디서 읽느냐가 drafter마다 다르다** — 자기 KV(1층 · 여러 층) / target의 KV / 없음
 - MoE · 희소 attention · 선형 attention 혼합 모델에서는 "가중치는 한 번만 읽는다"와 "길이만 되돌리면 된다"가 **깨진다**
